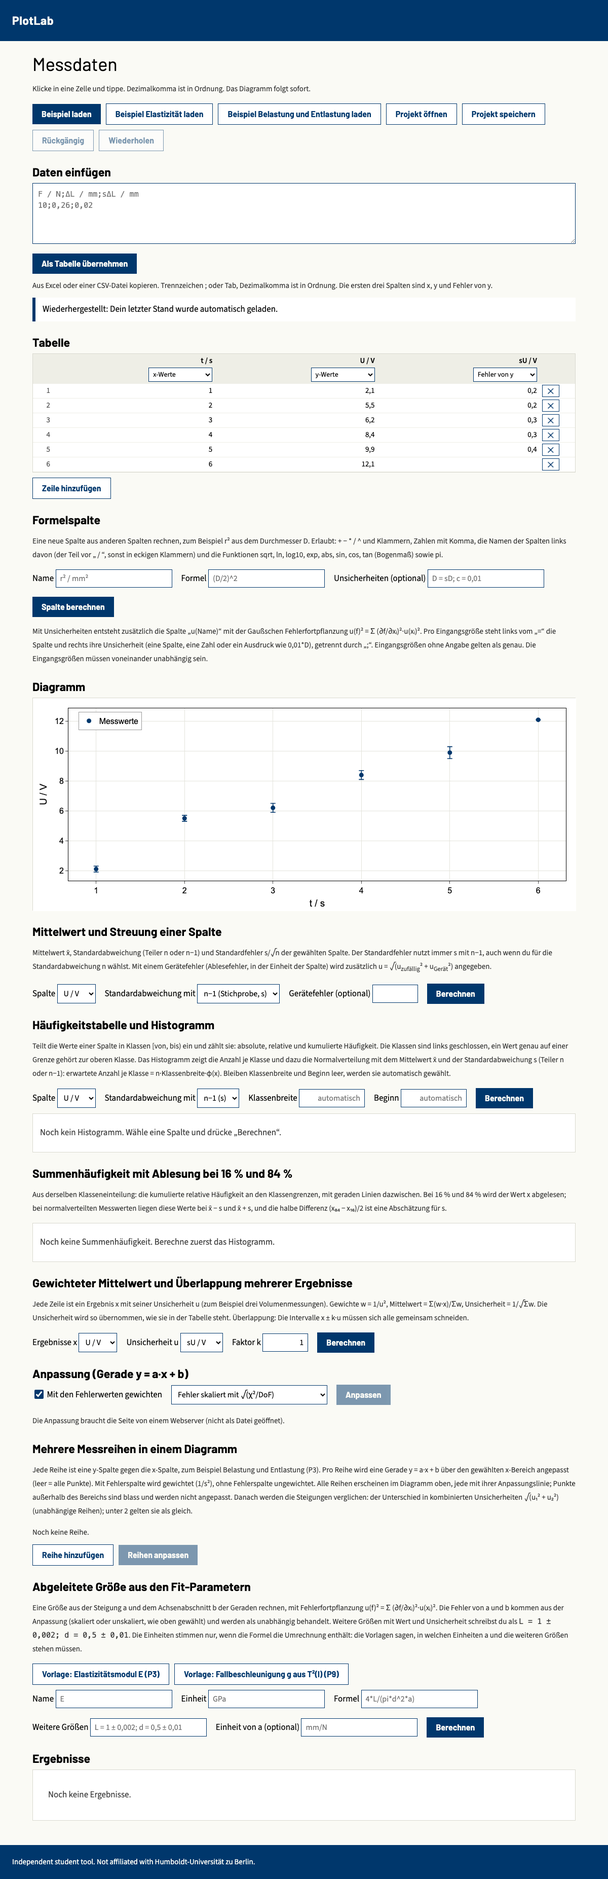
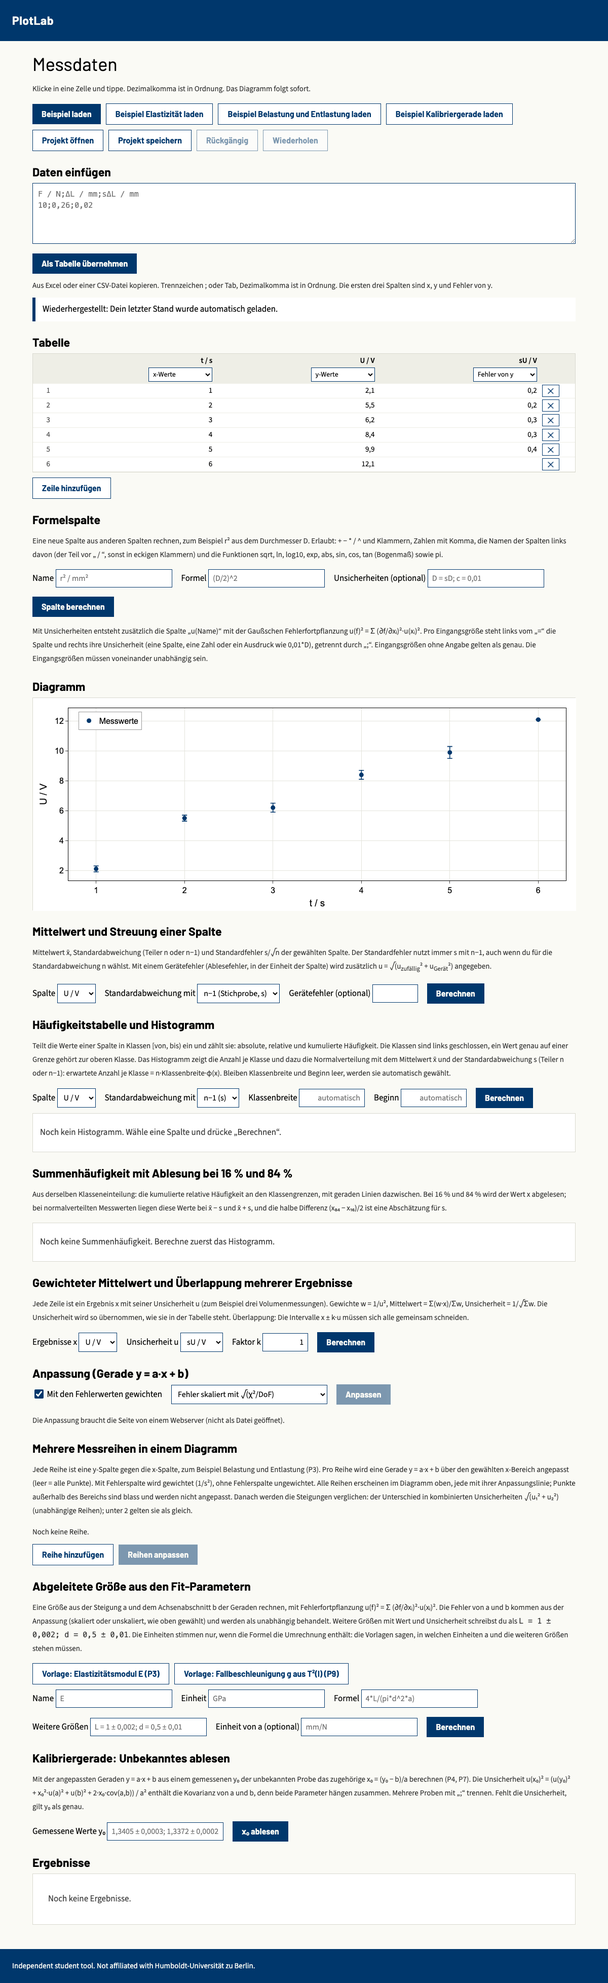
Phase 2 step 9: calibration line with an unknown read off, including covariance

diff --git a/app/index.html b/app/index.html
@@ -75,6 +75,7 @@
     <button class="btn" id="example">Beispiel laden</button>
     <button class="btn alt" id="example2">Beispiel Elastizität laden</button>
     <button class="btn alt" id="example3">Beispiel Belastung und Entlastung laden</button>
+    <button class="btn alt" id="example4">Beispiel Kalibriergerade laden</button>
     <label class="btn alt">Projekt öffnen<input id="openfile" type="file" accept=".json,.plotlab" hidden></label>
     <button class="btn alt" id="saveproj" disabled>Projekt speichern</button>
     <button class="btn alt" id="undo" disabled title="Strg/Cmd+Z">Rückgängig</button>
@@ -166,6 +167,13 @@
     <button class="btn" id="derive">Berechnen</button>
   </div>
   <div id="derivemsg" class="msg" role="alert" hidden></div>
+  <h2>Kalibriergerade: Unbekanntes ablesen</h2>
+  <p class="hint">Mit der angepassten Geraden y = a·x + b aus einem gemessenen y₀ der unbekannten Probe das zugehörige x₀ = (y₀ − b)/a berechnen (P4, P7). Die Unsicherheit u(x₀)² = (u(y₀)² + x₀²·u(a)² + u(b)² + 2·x₀·cov(a,b)) / a² enthält die Kovarianz von a und b, denn beide Parameter hängen zusammen. Mehrere Proben mit „;“ trennen. Fehlt die Unsicherheit, gilt y₀ als genau.</p>
+  <div class="fitbar" id="calib">
+    <label>Gemessene Werte y₀ <input class="txt" id="c_y0" aria-label="Gemessene Werte y0 mit Unsicherheit" placeholder="1,3405 ± 0,0003; 1,3372 ± 0,0002" autocomplete="off" spellcheck="false"></label>
+    <button class="btn" id="c_go">x₀ ablesen</button>
+  </div>
+  <div id="calibmsg" class="msg" role="alert" hidden></div>
   <h2>Ergebnisse</h2>
   <div id="results"><div class="empty">Noch keine Ergebnisse.</div></div>
 </main>
@@ -187,6 +195,8 @@ const fmt = new Intl.NumberFormat("de-DE", { maximumFractionDigits: 10 });
 const EXAMPLE2 = [["F / N", "ΔL / mm", "sΔL / mm"], [[10, 0.26, 0.02], [20, 0.50, 0.02], [30, 0.77, 0.02], [40, 1.03, 0.02], [50, 1.28, 0.02], [60, 1.51, 0.02]]];
 // Loading and unloading of the same wire (P3): extension against load, once while loading and once while unloading.
 const EXAMPLE3 = [["F / N", "ΔL auf / mm", "sΔL auf / mm", "ΔL ab / mm", "sΔL ab / mm"], [[10, 0.26, 0.02, 0.30, 0.02], [20, 0.50, 0.02, 0.55, 0.02], [30, 0.77, 0.02, 0.81, 0.02], [40, 1.03, 0.02, 1.05, 0.04], [50, 1.28, 0.02, 1.31, 0.04], [60, 1.51, 0.02, 1.54, 0.04]]];
+// Refractometer calibration (P7): refractive index n against mass fraction w, standards 0 to 10 %, errors grow with the reading.
+const EXAMPLE4 = [["w / %", "n / 1", "sn / 1"], [[0, 1.3331, 0.0002], [2, 1.3358, 0.0002], [4, 1.3389, 0.0002], [6, 1.3416, 0.0004], [8, 1.3445, 0.0004], [10, 1.3474, 0.0004]]];
 const EXAMPLE = [["t / s", "U / V", "sU / V"], [[1, 2.1, 0.2], [2, 4.3, 0.2], [3, 6.2, 0.3], [4, 8.4, 0.3], [5, 9.9, 0.4]]];
 // Templates for the derived quantity. E: L in m, d in mm, a in mm/N gives GPa (1 m, 1 mm, 1 mm/N is 4/π GPa). g: a = T²/l in s²/m gives m/s².
 const DERIVED_TEMPLATES = {
@@ -293,12 +303,23 @@ function renderPlot() {
   if (e) trace.error_y = { type: "data", array: idx.map(i => e.values[i] ?? 0), visible: true, color: "#00376C", thickness: 1.6, width: 5 };
   const ax = t => ({ title: { text: t, standoff: 10 }, showline: true, linecolor: "#000", mirror: true, ticks: "outside", gridcolor: "#e4e4dc", zeroline: false, exponentformat: "none" });
   const traces = [trace], fit = freshFit();
+  let yRange = null;
   if (fit) {
     const xs = idx.map(i => x.values[i]), lo = Math.min(...xs), hi = Math.max(...xs), [a, b] = fit.params.map(q => q.value);
     traces.push({ x: [lo, hi], y: [a * lo + b, a * hi + b], mode: "lines", type: "scatter", name: "Anpassung", line: { color: "#D55E00", width: 2.5 } });
+    // Calibration read-off: dashed guides from each measured y0 across to the line and down to the x axis, a marker at x0 with its uncertainty.
+    const cal = freshCalib();
+    if (cal) {
+      const reads = calibReads(cal), ys = [...idx.map(i => y.values[i] - (e?.values[i] ?? 0)), ...idx.map(i => y.values[i] + (e?.values[i] ?? 0)), ...reads.map(q => q.y0)];
+      const yl = Math.min(...ys), yh = Math.max(...ys), pad = 0.05 * ((yh - yl) || 1);
+      yRange = [yl - pad, yh + pad];
+      reads.forEach(q => traces.push({ x: [Math.min(lo, q.x0), q.x0, q.x0], y: [q.y0, q.y0, yRange[0]], mode: "lines", type: "scatter", showlegend: false, hoverinfo: "skip", line: { color: "#009E73", width: 1.5, dash: "dash" } }));
+      traces.push({ x: reads.map(q => q.x0), y: reads.map(q => q.y0), mode: "markers", type: "scatter", name: "Ablesung x₀ (± u)", marker: { color: "#009E73", size: 11, symbol: "diamond" },
+        error_x: { type: "data", array: reads.map(q => uOf(q) ?? 0), visible: true, color: "#009E73", thickness: 1.6, width: 5 } });
+    }
   }
   Plotly.react("plot", traces, { font: { family: "Arial, Helvetica, sans-serif", size: 16, color: "#000" }, separators: ",.",
-    margin: { l: 70, r: 20, t: 20, b: 60 }, xaxis: ax(x.name), yaxis: ax(y.name), paper_bgcolor: "#fff", plot_bgcolor: "#fff",
+    margin: { l: 70, r: 20, t: 20, b: 60 }, xaxis: ax(x.name), yaxis: { ...ax(y.name), ...(yRange ? { range: yRange } : {}) }, paper_bgcolor: "#fff", plot_bgcolor: "#fff",
     showlegend: true, legend: { x: 0.02, y: 0.98, bgcolor: "#fff", bordercolor: "#999", borderwidth: 1 } }, { displaylogo: false, responsive: true });
 }
 const freshFit = () => proj.results.find(r => r.kind === "fit" && !isStale(proj, r));
@@ -321,6 +342,25 @@ function derivedDetail(r) {
   return `<div class="detail" data-how>Rechnung: ${name} = ${esc(r.formula)}; u(${name})² = Σ (∂${name}/∂xᵢ)²·u(xᵢ)² (unabhängige Eingänge). Eingesetzt: ${used2}. ` +
     `Beiträge zu u(${name})/|${name}|: ${parts || "keine (alle Unsicherheiten 0)"}. Fehler von a und b: ${un ? "unskaliert" : "skaliert bzw. aus der Streuung"}.` +
     (used.some(q => q.name === "a") && used.some(q => q.name === "b") ? " Hinweis: a und b werden als unabhängig behandelt, ihre Korrelation ist nicht berücksichtigt." : "") + "</div>";
+}
+// Calibration read-off result: the numbers behind each x0, the share of each term in u(x0)², a warning outside the calibrated range.
+// Every number goes through a number formatter and every text through esc(), so a hand-edited project file cannot inject markup.
+const calibReads = r => (Array.isArray(r.reads) ? r.reads : []).filter(q => q && [q.y0, q.x0].every(Number.isFinite)).slice(0, 10);
+const calibOk = r => Array.isArray(r.reads) && r.reads.length > 0 && r.reads.length <= 10 && r.reads.every(q => q && [q.y0, q.x0, q.uScaled].every(Number.isFinite)) && Array.isArray(r.range) && r.range.every(Number.isFinite);
+const freshCalib = () => { const r = proj.results.find(q => q.kind === "calib" && !isStale(proj, q)); return r && calibOk(r) ? r : null; };
+function calibDetail(r) {
+  const f = new Intl.NumberFormat("de-DE", { maximumSignificantDigits: 4 }), g = new Intl.NumberFormat("de-DE", { maximumSignificantDigits: 6 }), sci = new Intl.NumberFormat("de-DE", { notation: "scientific", maximumFractionDigits: 3 });
+  const pc = new Intl.NumberFormat("de-DE", { maximumFractionDigits: 0 }), un = proj.settings.errMethod === "unscaled" && r.weighted;
+  const m = (r.used || {})[un ? "unscaled" : "scaled"] || {}, u = r.used || {}, unit = esc(u.xUnit ?? ""), lo = Number((r.range || [])[0]), hi = Number((r.range || [])[1]);
+  const how = !r.weighted ? "ungewichtete Anpassung; a, b und ihre Kovarianz aus der Streuung der Messpunkte um die Gerade"
+    : un ? "gewichtete Anpassung (Gewichte 1/s²); a, b und ihre Kovarianz unskaliert, direkt aus den Fehlerwerten" : "gewichtete Anpassung (Gewichte 1/s²); a, b und ihre Kovarianz mit χ²/DoF skaliert";
+  const rows = calibReads(r).map(q => {
+    const parts = (un ? q.partsUnscaled : q.partsScaled) || {}, sh = k => parts[k] == null ? "–" : pc.format(Number(parts[k]) * 100) + " %", out = q.x0 < lo || q.x0 > hi;
+    return `<div class="detail" data-readoff>y₀ = ${fmt.format(q.y0)} ± ${fmt.format(Number(q.u0))}: x₀ = ${f.format(q.x0)}${unit ? " " + unit : ""}. Anteile an u(x₀)²: y₀ ${sh("y0")}, a ${sh("a")}, b ${sh("b")}, Kovarianz ${sh("cov")}.` +
+      (out ? ` Hinweis: x₀ liegt außerhalb des Kalibrierbereichs ${f.format(lo)} bis ${f.format(hi)}${unit ? " " + unit : ""} (Extrapolation). Die Unsicherheit ist dort größer, als die Rechnung zeigt.` : "") + "</div>";
+  }).join("");
+  return `<div class="detail" data-calibhow>Rechnung: x₀ = (y₀ − b)/a mit a = ${g.format(Number(u.a))}, b = ${g.format(Number(u.b))}, u(a) = ${g.format(Number(m.ua))}, u(b) = ${g.format(Number(m.ub))}, cov(a,b) = ${sci.format(Number(m.cov))}. ` +
+    `u(x₀)² = (u(y₀)² + x₀²·u(a)² + u(b)² + 2·x₀·cov(a,b)) / a². Methode: ${how}.</div>` + rows;
 }
 // Series result: one row per series, then every pair of slopes compared. Numbers go through formatters, text through esc().
 function seriesDetail(r) {
@@ -415,7 +455,7 @@ function renderResults() {
       const u = uOf(q), t = huRound(q.value, u);
       return `<div class="res">${esc(q.name)} = ${t ? `(${t[0]} ± ${t[1]})` : q.plain ? fmtPlain.format(q.value) : fmt.format(q.value)}${q.unit ? " " + esc(q.unit) : ""}</div>`;
     }).join("");
-    return `<div class="result${stale ? " stale" : ""}">${stale ? `<div class="msg stalemsg">Die Daten wurden geändert. Dieses Ergebnis ist veraltet. Bitte neu ${["stats", "wmean", "hist", "derived"].includes(r.kind) ? "berechnen" : "anpassen"}.</div>` : ""}${lines}${r.kind === "fit" && r.dof ? fitDetail(r) : ""}${r.kind === "derived" ? derivedDetail(r) : ""}${r.kind === "stats" ? statsDetail(r) : ""}${r.kind === "wmean" ? wmeanDetail(r) : ""}${r.kind === "hist" ? histDetail(r) : ""}${r.kind === "series" ? seriesDetail(r) : ""}</div>`;
+    return `<div class="result${stale ? " stale" : ""}">${stale ? `<div class="msg stalemsg">Die Daten wurden geändert. Dieses Ergebnis ist veraltet. Bitte neu ${["stats", "wmean", "hist", "derived", "calib"].includes(r.kind) ? "berechnen" : "anpassen"}.</div>` : ""}${lines}${r.kind === "fit" && r.dof ? fitDetail(r) : ""}${r.kind === "derived" ? derivedDetail(r) : ""}${r.kind === "stats" ? statsDetail(r) : ""}${r.kind === "wmean" ? wmeanDetail(r) : ""}${r.kind === "hist" ? histDetail(r) : ""}${r.kind === "series" ? seriesDetail(r) : ""}${r.kind === "calib" ? calibDetail(r) : ""}</div>`;
   }).join("");
 }
 // Weighting needs an error column; errors method only matters for a weighted fit.
@@ -445,6 +485,7 @@ function syncControls() {
   for (const [id, v] of [["h_w", hs.width], ["h_s", hs.start]]) { $(id).value = v === null ? "" : fmt.format(v); $(id).classList.remove("bad"); }
   const ds = derivedSettings(proj);
   for (const [id, k] of Object.entries(DKEYS)) $(id).value = ds[k];
+  $("c_y0").value = calibSettings(proj).y0; $("calibmsg").hidden = true;
 }
 // Formula columns are recomputed from the data on every change; rows that cannot be calculated are named in the message.
 function recalc() {
@@ -496,6 +537,11 @@ $("example").onclick = () => setProject(newProject(...EXAMPLE));
 $("example3").onclick = () => {
   const p = newProject(...EXAMPLE3);
   p.settings.series = [{ y: "ΔL auf / mm", err: "sΔL auf / mm", xmin: null, xmax: null }, { y: "ΔL ab / mm", err: "sΔL ab / mm", xmin: null, xmax: null }];
+  setProject(p);
+};
+$("example4").onclick = () => {
+  const p = newProject(...EXAMPLE4);
+  p.settings.calib = { y0: "1,3405 ± 0,0003" };
   setProject(p);
 };
 $("example2").onclick = () => {
@@ -557,7 +603,7 @@ if (worker) {
     if (fingerprint(proj) !== job.fp || proj.settings.weighted !== job.weightedSetting) return fitFailed("Die Daten wurden während der Berechnung geändert. Bitte erneut anpassen.");
     const out = m.result;
     change(() => addResult(proj, {
-      kind: "fit", model: "line", weighted: job.weighted, dof: out.dof, n: job.n,
+      kind: "fit", model: "line", weighted: job.weighted, dof: out.dof, n: job.n, cov: { scaled: out.cov_scaled, ...(job.weighted ? { unscaled: out.cov_unscaled } : {}) },
       ...(job.weighted ? { chi2: out.chi2 } : { ssr: out.ssr }),
       params: job.names.map(([name, unit], i) => ({ name, unit, value: out.p[i], uScaled: out.err_scaled[i], ...(job.weighted ? { uUnscaled: out.err_unscaled[i] } : {}) })),
     }));
@@ -659,6 +705,38 @@ $("derive").onclick = () => {
   change(() => addResult(proj, {
     kind: "derived", weighted: fit.weighted, formula: ds.formula.trim(), used: s.used, partsScaled: s.parts, partsUnscaled: (u || s).parts,
     params: [{ name, unit: ds.unit.trim(), value: s.value, uScaled: s.u, ...(u ? { uUnscaled: u.u } : {}) }],
+  }));
+};
+// Calibration read-off: the measured values are a text setting (typing is one undo step); the calculation needs a fresh line fit with its covariance.
+$("c_y0").addEventListener("input", e => {
+  if (editKey !== "calib.y0") { pushUndo(); editKey = "calib.y0"; }
+  proj.settings.calib = { y0: e.target.value };
+  renderPlot(); renderResults(); autosave();
+});
+$("c_y0").addEventListener("focusout", () => { editKey = null; });
+function calibFailed(why) { $("calibmsg").textContent = why; $("calibmsg").hidden = false; }
+$("c_go").onclick = () => {
+  if (!proj) return;
+  const fit = freshFit(), x = col("x"), y = col("y");
+  if (!fit) return calibFailed("Bitte zuerst „Anpassen“ drücken. Das Ergebnis der Geradenanpassung fehlt oder ist veraltet.");
+  const v = parseCalibValues(calibSettings(proj).y0);
+  if (v.error) return calibFailed(v.error);
+  const cv = k => { const c = (fit.cov || {})[k]; return Array.isArray(c) && c.length === 3 && c.every(Number.isFinite) ? c : null; };
+  const kinds = fit.weighted ? ["scaled", "unscaled"] : ["scaled"];
+  if (!kinds.every(cv)) return calibFailed("Das Ergebnis der Anpassung enthält die Kovarianz von a und b nicht (ältere Version). Bitte „Anpassen“ erneut drücken.");
+  const [pa, pb] = fit.params, xs = x.values.filter((q, i) => q !== null && y.values[i] !== null), per = k => ({ a: pa.value, b: pb.value, ua: pa[k === "scaled" ? "uScaled" : "uUnscaled"], ub: pb[k === "scaled" ? "uScaled" : "uUnscaled"], cov: cv(k)[1] });
+  const unit = (x.name.split("/")[1] || "").trim(), reads = [];
+  for (const q of v.values) {
+    const s = readOff(per("scaled"), q.y0, q.u);
+    if (s.error) return calibFailed(s.error);
+    const u = fit.weighted ? readOff(per("unscaled"), q.y0, q.u) : null;
+    reads.push({ y0: q.y0, u0: q.u, x0: s.x0, uScaled: s.u, ...(u ? { uUnscaled: u.u } : {}), partsScaled: s.parts, partsUnscaled: (u || s).parts });
+  }
+  $("calibmsg").hidden = true;
+  change(() => addResult(proj, {
+    kind: "calib", weighted: fit.weighted, range: [Math.min(...xs), Math.max(...xs)],
+    used: { a: pa.value, b: pb.value, xUnit: unit, scaled: { ua: per("scaled").ua, ub: per("scaled").ub, cov: cv("scaled")[1] }, ...(fit.weighted ? { unscaled: { ua: per("unscaled").ua, ub: per("unscaled").ub, cov: cv("unscaled")[1] } } : {}) },
+    reads, params: reads.map(q => ({ name: `x₀ (y₀ = ${fmt.format(q.y0)})`, unit, value: q.x0, uScaled: q.uScaled, ...(q.uUnscaled !== undefined ? { uUnscaled: q.uUnscaled } : {}) })),
   }));
 };
 // Typing the instrument error is one undo step; the two selects are one step each.

diff --git a/app/derived.js b/app/derived.js
@@ -44,4 +44,33 @@ function deriveQuantity(formula, fit, vars) {
     return { error: `Die Formel lässt sich nicht berechnen: ${e}.` };
   }
 }
-if (typeof module !== "undefined") module.exports = { parseDerivedVars, deriveQuantity };
+
+// Calibration line (P4, P7): measured values "0,45 ± 0,01; 0,62 ± 0,01" (u may be missing = exact) -> {values: [{y0, u}]} or {error}.
+function parseCalibValues(text) {
+  const entries = String(text).split(";").map(s => s.trim()).filter(Boolean), values = [];
+  if (!entries.length) return { error: "Bitte mindestens einen gemessenen Wert y₀ eintragen, zum Beispiel 0,45 ± 0,01. Mehrere Werte mit „;“ trennen." };
+  if (entries.length > 10) return { error: "Es sind höchstens 10 gemessene Werte möglich." };
+  for (const e of entries) {
+    const parts = e.split(/±|\+-|\+\/-/).map(s => s.trim());
+    if (parts.length > 2) return { error: `„${e}“: Es darf nur ein ± vorkommen.` };
+    const y0 = _toNum(parts[0]), u = parts.length === 2 ? _toNum(parts[1]) : 0;
+    if (!Number.isFinite(y0)) return { error: `„${e}“: „${parts[0]}“ ist keine Zahl.` };
+    if (!Number.isFinite(u) || u < 0) return { error: `„${e}“: Die Unsicherheit „${parts[1]}“ ist keine Zahl größer oder gleich 0.` };
+    values.push({ y0, u });
+  }
+  return { values };
+}
+// x0 = (y0 - b)/a with u(x0)² = (u(y0)² + x0²·u(a)² + u(b)² + 2·x0·cov(a,b)) / a². fit = {a, b, ua, ub, cov} (cov = covariance of a and b).
+// parts: share of each term in u(x0)² (they add up to 1; the covariance share is negative when a and b are positively correlated).
+function readOff(fit, y0, u0) {
+  const { a, b, ua, ub, cov } = fit;
+  if (!Number.isFinite(a) || !(Math.abs(a) > 2 * ua)) { // a slope that is not clearly different from 0 gives a meaningless x0
+    const g = new Intl.NumberFormat("de-DE", { maximumSignificantDigits: 3 });
+    return { error: `Die Steigung a = ${g.format(a)} (u(a) = ${g.format(ua)}) ist nicht deutlich von 0 verschieden. Daraus lässt sich kein x₀ ablesen.` };
+  }
+  const x0 = (y0 - b) / a, t = { y0: u0 * u0, a: x0 * x0 * ua * ua, b: ub * ub, cov: 2 * x0 * cov }, v = (t.y0 + t.a + t.b + t.cov) / (a * a);
+  if (!Number.isFinite(v)) return { error: "Die Unsicherheit von x₀ lässt sich nicht berechnen." };
+  const sum = t.y0 + t.a + t.b + t.cov;
+  return { x0, u: Math.sqrt(Math.max(0, v)), parts: Object.fromEntries(Object.entries(t).map(([k, q]) => [k, sum > 0 ? q / sum : null])) };
+}
+if (typeof module !== "undefined") module.exports = { parseDerivedVars, deriveQuantity, parseCalibValues, readOff };

diff --git a/app/project.js b/app/project.js
@@ -43,6 +43,8 @@ function derivedSettings(p) {
   const d = p.settings.derived || {}, t = k => typeof d[k] === "string" ? d[k] : "";
   return { name: t("name"), unit: t("unit"), formula: t("formula"), vars: t("vars"), aUnit: t("aUnit") };
 }
+// Calibration read-off (P4, P7): the measured y0 values as text "0,45 ± 0,01; 0,62 ± 0,01".
+const calibSettings = p => ({ y0: typeof ((p.settings || {}).calib || {}).y0 === "string" ? p.settings.calib.y0 : "" });
 // Several y series fitted over their own x ranges (P3 loading and unloading): [{y, err, xmin, xmax}], at most 4. A series whose y column is gone is dropped.
 const SERIES_MAX = 4;
 function seriesSettings(p) {
@@ -61,9 +63,10 @@ function addResult(p, result) {
   p.results.push({ ...result, settings: { ...p.settings }, computedFrom: (KEYS[result.kind] || fingerprint)(p) });
 }
 
-// Stale when the data changed, weighting was switched after the fit, or (derived results) the extra inputs changed.
+// Stale when the data changed, weighting was switched after the fit, or (derived and calibration results) their own inputs changed.
 const isStale = (p, r) => KEYS[r.kind] ? r.computedFrom !== KEYS[r.kind](p) : r.computedFrom !== fingerprint(p) || (r.settings || {}).weighted !== p.settings.weighted ||
-  (r.kind === "derived" && JSON.stringify(derivedSettings({ settings: r.settings || {} })) !== JSON.stringify(derivedSettings(p)));
+  (r.kind === "derived" && JSON.stringify(derivedSettings({ settings: r.settings || {} })) !== JSON.stringify(derivedSettings(p))) ||
+  (r.kind === "calib" && JSON.stringify(calibSettings({ settings: r.settings || {} })) !== JSON.stringify(calibSettings(p)));
 
 const save = p => JSON.stringify(p, null, 1);
 
@@ -80,4 +83,4 @@ function open(text) {
   return ok ? { project: p } : { error: "Das Projekt ist beschädigt: Spalten oder Werte fehlen oder sind keine Zahlen." };
 }
 
-if (typeof module !== "undefined") module.exports = { seriesSettings, SERIES_MAX, derivedSettings, statsSettings, wmeanSettings, histSettings, ROLES, newProject, fingerprint, addResult, isStale, save, open };
+if (typeof module !== "undefined") module.exports = { calibSettings, seriesSettings, SERIES_MAX, derivedSettings, statsSettings, wmeanSettings, histSettings, ROLES, newProject, fingerprint, addResult, isStale, save, open };

diff --git a/testbuild/fit-worker.js b/testbuild/fit-worker.js
@@ -21,11 +21,13 @@ def line_fit(x, y, sy):
         raise ValueError("Die Anpassung ist nicht konvergiert. Andere Startwerte oder ein anderes Modell versuchen.")
     c = (vt.T / sv ** 2) @ vt                     # (A^T A)^-1 = covariance for known errors
     r = y - (p[0] * x + p[1]); chi2 = float(np.sum((r / s) ** 2)); dof = len(x) - 2
-    out = {"p": p.tolist(), "err_scaled": np.sqrt(np.diag(c) * chi2 / dof).tolist(), "dof": dof}
+    out = {"p": p.tolist(), "err_scaled": np.sqrt(np.diag(c) * chi2 / dof).tolist(), "dof": dof,
+           "cov_scaled": [float(c[0, 0] * chi2 / dof), float(c[0, 1] * chi2 / dof), float(c[1, 1] * chi2 / dof)]}  # [var a, cov a b, var b], for calibration read-off
     if sy is None:
         out["ssr"] = chi2
     else:
         out["err_unscaled"] = np.sqrt(np.diag(c)).tolist(); out["chi2"] = chi2
+        out["cov_unscaled"] = [float(c[0, 0]), float(c[0, 1]), float(c[1, 1])]
     return json.dumps(out)
 def run(s):
     d = json.loads(s)

diff --git a/tests/reference/calibration.py b/tests/reference/calibration.py
@@ -1,0 +1,53 @@
+# Independent hand calculation (exact fractions) for tests/phase2-step9-calibration.mjs: calibration line (refractometer, P7) and an unknown read off.
+# Run: python3 tests/reference/calibration.py
+# Weighted line fit as in Taylor, "An Introduction to Error Analysis", ch. 8 (w = 1/s^2), with the covariance of a and b = -Sx / D (D = Sw*Sxx - Sx^2).
+# Unknown: x0 = (y0 - b)/a. Propagation of u(y0), u(a), u(b) and cov(a,b):
+#   u(x0)^2 = (1/a^2) * (u(y0)^2 + x0^2 u(a)^2 + u(b)^2 + 2 x0 cov(a,b))
+# Second route for the UNWEIGHTED case, the classic inverse-regression formula (Miller & Miller, "Statistics and Chemometrics for Analytical Chemistry"):
+#   u(x0)^2 = (u(y0)^2 + s^2 (1/n + (x0 - xbar)^2 / Sxx)) / a^2   with s^2 = SSR/(n-2)
+from fractions import Fraction as F
+from math import sqrt
+x = [F(v) for v in (0, 2, 4, 6, 8, 10)]
+y = [F(v) for v in ("1.3331", "1.3358", "1.3389", "1.3416", "1.3445", "1.3474")]
+s = [F(v) for v in ("0.0002", "0.0002", "0.0002", "0.0004", "0.0004", "0.0004")]
+y0, u0 = F("1.3405"), F("0.0003")
+
+def wfit(x, y, s):
+    w = [1 / q**2 for q in s]; S = sum
+    Sw, Sx, Sy = S(w), S(a * b for a, b in zip(w, x)), S(a * b for a, b in zip(w, y))
+    Sxx, Sxy = S(a * b * b for a, b in zip(w, x)), S(a * b * c for a, b, c in zip(w, x, y))
+    D = Sw * Sxx - Sx**2
+    a, b = (Sw * Sxy - Sx * Sy) / D, (Sxx * Sy - Sx * Sxy) / D
+    chi2 = S(wi * (yi - a * xi - b) ** 2 for wi, xi, yi in zip(w, x, y)); dof = len(x) - 2
+    var_a, var_b, cov = Sw / D, Sxx / D, -Sx / D          # unscaled (known errors)
+    return a, b, var_a, var_b, cov, chi2, dof
+
+def read_off(a, b, va, vb, cov, y0, u0):
+    x0 = (y0 - b) / a
+    with_cov = sqrt(float((u0**2 + x0**2 * va + vb + 2 * x0 * cov) / a**2))
+    indep = sqrt(float((u0**2 + x0**2 * va + vb) / a**2))
+    return float(x0), with_cov, indep
+
+a, b, va, vb, cov, chi2, dof = wfit(x, y, s)
+k = chi2 / dof                                            # scaling of the covariance matrix by chi2/DoF
+print("weighted: a", float(a), "b", float(b), "chi2", float(chi2), "dof", dof, "chi2/dof", float(k))
+print("  unscaled u(a)", sqrt(float(va)), "u(b)", sqrt(float(vb)), "cov", float(cov))
+print("  scaled   u(a)", sqrt(float(va * k)), "u(b)", sqrt(float(vb * k)), "cov", float(cov * k))
+print("  unscaled x0, u with cov, u independent:", *read_off(a, b, va, vb, cov, y0, u0))
+print("  scaled   x0, u with cov, u independent:", *read_off(a, b, va * k, vb * k, cov * k, y0, u0))
+# several unknowns at once
+for yy, uu in ((F("1.3405"), F("0.0003")), (F("1.3372"), F("0.0002")), (F("1.3490"), F("0.0003"))):
+    print("  y0", float(yy), "scaled:", *read_off(a, b, va * k, vb * k, cov * k, yy, uu))
+
+# unweighted (ordinary least squares), all 6 points
+n = len(x); mx = sum(x) / n; my = sum(y) / n; sxx = sum((v - mx) ** 2 for v in x); sxy = sum((v - mx) * (w - my) for v, w in zip(x, y))
+a0 = sxy / sxx; b0 = my - a0 * mx; ssr = sum((w - a0 * v - b0) ** 2 for v, w in zip(x, y)); s2 = ssr / (n - 2)
+va0, vb0, cov0 = s2 / sxx, s2 * (1 / F(n) + mx**2 / sxx), -s2 * mx / sxx
+print("unweighted: a", float(a0), "b", float(b0), "ssr", float(ssr), "u(a)", sqrt(float(va0)), "u(b)", sqrt(float(vb0)), "cov", float(cov0))
+x0, uc, ui = read_off(a0, b0, va0, vb0, cov0, y0, u0)
+print("  x0", x0, "u with cov", uc, "u independent", ui)
+# classic inverse-regression formula (second route)
+x0f = (y0 - b0) / a0
+print("  classic formula u", sqrt(float((u0**2 + s2 * (1 / F(n) + (x0f - mx) ** 2 / sxx)) / a0**2)))
+# Extrapolation: an unknown above the last standard (x = 10)
+yo = F("1.3600"); print("  outside range: x0", float((yo - b0) / a0))

diff --git a/docs/progress.md b/docs/progress.md
@@ -15,12 +15,12 @@ Phase 1 is finished (see `docs/phase1-report.md`). Phase 2 **assumes P1 to P9** 
 - [x] 6. Cumulative probability plot with the 16 % and 84 % read-off (P1). Test: values read off the hand-made cumulative table; the plot marks both levels.
 - [x] 7. General derived quantity from fit parameters (P3, P4, P5, P9): a formula over a, b, u(a), u(b) with propagation; the E of step 6 of Phase 1 becomes the first template of it. Test: the P3 numbers of `tests/phase1-step6-elasticity.mjs` are reproduced exactly (E = (201 ± 8) GPa), plus one new case (g from the slope of T² against l, P9) by hand.
 - [x] 8. Fit a chosen x range and several y series in one plot (P3 loading and unloading). Test: two series fitted separately against hand values; both lines drawn and named in the legend; the two slopes compared in units of their combined uncertainty.
-- [ ] 9. Calibration line with an unknown read off, with uncertainty (P4, P7): the line fit also returns the covariance of a and b; x0 = (y0 − b)/a with propagated uncertainty. Test: a 6-point calibration and one measured y0 against a hand calculation including the covariance term.
+- [x] 9. Calibration line with an unknown read off, with uncertainty (P4, P7): the line fit also returns the covariance of a and b; x0 = (y0 − b)/a with propagated uncertainty. Test: a 6-point calibration and one measured y0 against a hand calculation including the covariance term.
 - [ ] 10. Semi-log axis switch with y error bars (P8). Test: log y axis on the plot data of a decay series; error bars stay visible; a zero or negative y shows a clear message instead of a broken plot.
 - [ ] 11. χ² goodness-of-fit against Poisson and Gauss (P8), statistics via SciPy in the worker: expected counts, χ², degrees of freedom, p-value, and a warning when expected counts are below 5. Test: χ² and expected counts by hand; p-values against the printed χ² table (for example df = 3: 7.815 at p = 0.05).
 - [ ] 12. Confidence interval for a mean with the t distribution (P9). Test: n = 5 sample against hand values with t(0.975; 4) = 2.776 from the table; the result line is (mean ± u) with the interval stated.
 - [ ] 13. Compare a measured and a calculated value with their uncertainties (P6 Wheatstone bridge and grating): difference in units of the combined uncertainty and a plain-language verdict. Test: hand numbers for one agreeing and one disagreeing pair.
-- [ ] 14. Figure export in the app (PNG 2400 px and SVG) moved from the test build, for every plot in Phase 2. Test: as `tests/step6-export.sh` but on the app page, including a semi-log plot.
+- [ ] 14. Figure export in the app (PNG 2400 px and SVG) moved from the test build, for every plot in Phase 2. In the same step move the fit worker, Pyodide, Plotly, round.js, parse.js and fonts from `testbuild/` into `app/` (still borrowed, see the Log of step 9). Test: as `tests/step6-export.sh` but on the app page, including a semi-log plot.
 - [ ] 15. Template projects, one per experiment: first P1 to P5 (P1 Fehlerverteilung, P2 Volumen, P3 Elastizität, P4 Oberflächenspannung, P5 Polarimetrie und Newtonsche Ringe), a "Vorlage laden" list in the app. Test: loading each template and pressing its steps reproduces the hand-calculated result lines of that experiment.
 - [ ] 16. Templates P6 to P9 (Wheatstone und Gitter, Refraktometer, Radioaktivität, Pendel). Test as step 15.
 - [ ] 17. Phase 2 gate: run every P1 to P9 check, measure the time and actions for each against the Excel steps, write `docs/phase2-report.md`. Things that need R, her real data or her time go under "For Luis". Then write Phase 3 steps from the roadmap.
@@ -83,3 +83,4 @@ Phase 1 is finished (see `docs/phase1-report.md`). Phase 2 **assumes P1 to P9** 
 - 2026-10-14, Phase 2 step 6: Under the histogram there is now a plot "Summenhäufigkeit mit Ablesung bei 16 % und 84 %", drawn from the same classes: the cumulative share at each class limit joined by straight lines, with dashed guides and orange markers at 16 % and 84 % and the read-off x values written next to them. The result also gets a line "Ablesung in der Summenhäufigkeit" with x(16 %), x(84 %), their half difference and, for comparison, x̄ − s and x̄ + s. Tested (`tests/phase2-step6-cumulative.sh`) with the 30 length readings of step 5 against exact fractions (`tests/reference/histogram.py`): cumulative 0 6,7 23,3 53,3 80,0 93,3 100 %; x(16 %) = 9,812 mm (2453/250), x(84 %) = 10,36 mm (259/25), half difference 0,274 mm, x̄ ∓ s = 9,787 and 10,31 mm; automatic classes 9,8267 and 10,2886 by hand; guides end exactly on the marked points; axis titles "l / mm" and "Kumulierte Häufigkeit / %"; the plot disappears when data changes ("veraltet") and comes back when the edit is reverted; reload keeps it; bad input (all values equal) leaves no plot; a hand-edited project with script text runs nothing. All 21 checks in `scripts/check.sh` pass. Screenshots `evidence/phase2-step6-cumulative.png`, `-plot.png`, `-error.png` judged OK. Limits: the read-off assumes the straight-line interpolation between class limits (stated on the page), so it depends on the class width; the levels 16 % and 84 % are fixed; the readings carry no uncertainty (shown with 4 digits, not in HU format); PNG/SVG export comes in step 14. New code: `cumRead` in `app/stats.js`.
 - 2026-10-14, Phase 2 step 7: The fixed "E berechnen" form is now a general derived quantity: a student types a name, unit and formula over the fitted slope a and intercept b (for example `4*pi^2/a`) plus further quantities "L = 1 ± 0,002; d = 0,5 ± 0,01", presses "Berechnen" and reads the result as (value ± u) unit with Gaussian propagation, using the scaled or unscaled error of a and b. The details line shows the formula, the numbers used and each input's share of the uncertainty; if a formula uses both a and b the page says their correlation is ignored (covariance comes in step 9). Two templates: E (P3) and g from T²(l) (P9). A template can name the unit a must have; a mismatch gives a message instead of a wrong number. Tested (`tests/phase2-step7-derived.sh`): hand cases a·b (u = 0,5), a/b (1/18), -b/a (0,125), 4π²/a, exact and uncertain extra inputs; in the real page P9 against exact fractions in `tests/reference/derived_g.py`: a = (3,99 ± 0,04) s²/m, g = (9,89 ± 0,09) m/s² scaled, (9,89 ± 0,15) unscaled, unweighted (9,88 ± 0,09); x0 = -b/a = (-0,005 ± 0,007) m; undo, stale, reload, save/open; 6 bad inputs give clear messages and add no result; a hand-edited project with script text runs nothing (the test fails if the escaping is removed). The P3 numbers of `tests/phase1-step6-elasticity.mjs` are unchanged (E = (201 ± 8) GPa, (201 ± 9) unscaled); only its input fields and the wrong-unit message were adapted to the new form. `app/derive.js` replaced by `app/derived.js`; `derivedSettings` in `app/project.js`; `partial` exported from `app/propagate.js`. Screenshots `evidence/phase2-step7-derived.png`, `-error.png`. Limits: a and b treated as independent; one derived result at a time; units are not converted automatically (the formula must contain the factor). The timed P3 run of Phase 1 step 8 now takes 7 actions instead of 9 (a template button replaces four entries); its test was adapted and passes.
 - 2026-10-14, Phase 2 step 8: A student can now add up to 4 series in "Mehrere Messreihen in einem Diagramm": each is a y column with an optional error column and an x range ("x von", "x bis", empty = all). "Reihen anpassen" fits a straight line per series over its range (weighted when an error column is chosen, else unweighted); all series appear in the main plot with their own marker, colour and named fit line, points outside the range pale. The results show a and b of each series as (value ± u) unit and compare every pair of slopes: difference with uncertainty, size in combined uncertainties √(u1² + u2²), and a verdict (under 2 agree, 2 or more clearly different). A new example "Beispiel Belastung und Entlastung" shows P3. Tested (`tests/phase2-step8-series.sh`) against exact fractions in `tests/reference/series_fit.py`: loading a = 0,025285714 (u 0,00029044 scaled, 0,00047809 unscaled), unloading a = 0,025018987 (u 0,00019733 / 0,00071157), screen (0,02529 ± 0,00029) and (0,02502 ± 0,00020) mm/N, difference 0,76 combined uncertainties (0,31 unscaled) so "stimmen überein"; ranges 10..30 against 40..60 give a = 0,0255 and 0,0245, z = 0,82; a soft unloading series (a = 0,018686) gives 20,86 (12,35 unscaled) so "unterscheiden sich deutlich"; unweighted loading equals the closed-form OLS. Undo steps back through each typed range, edits make the result out of date and take the lines out of the plot, reload and save/open keep it, a hand-edited project with script text runs nothing (the test fails if the escaping is removed). Bad input (2 points in the range, "von" above "bis", text in a range, error value 0 with the row, y = x column, 5th series, an edit during the calculation) gives clear German messages. All 23 checks in `scripts/check.sh` pass. Screenshots `evidence/phase2-step8-series.png`, `-ranges.png`, `-different.png`, `-error.png` judged OK (axis labels with unit, German numbers, solid markers against lines, legend names each series, error bars visible). New code: `app/series.js` (pure), `seriesSettings`/`seriesKey` in `app/project.js`. Limits: the series are treated as independent; the main fit ("Anpassen") has no x range of its own (use one series for that); the legend marker of a series with pale points looks lighter; PNG/SVG export of the series plot comes in step 14.
+- 2026-10-14, Phase 2 step 9: A student can now press "Anpassen" on a calibration line, type measured values of the unknown (`1,3405 ± 0,0003; 1,3372 ± 0,0002`) under "Kalibriergerade: Unbekanntes ablesen" and read x₀ = (y₀ − b)/a as (value ± u) unit. The uncertainty includes the covariance of a and b (the line fit in the worker now also returns var a, cov(a,b), var b, scaled and unscaled; stored in the fit result). The plot gets dashed guides from y₀ to the line and down to the x axis, a marker at x₀ with a horizontal uncertainty bar, and a legend entry. The details line gives the numbers used and the share of y₀, a, b and the covariance in u(x₀)²; x₀ outside the standards gets an extrapolation warning. Tested (`tests/phase2-step9-calibration.sh`) against exact fractions in `tests/reference/calibration.py` (6 standards, w = 0 to 10 %, n = 1,3331 to 1,3474, errors 0,0002 and 0,0004): a = 0,00143481, b = 1,33305527, cov(a,b) = -7,6056e-10 scaled and -4,0506e-9 unscaled, all 9 digits; y₀ = 1,3405 ± 0,0003 gives x₀ = 5,18865 with u = 0,21248 scaled and 0,22656 unscaled (without the covariance term 0,22132, so the test fails if it is left out); screen (5,19 ± 0,21) % and (5,19 ± 0,23) %; further unknowns (2,89 ± 0,14) % and (11,11 ± 0,23) % with the extrapolation warning on the last; unweighted x₀ = 5,19774, u = 0,21096, equal to the classic inverse-regression formula. Hand-checked pure cases (a = 2, b = 1, u(a) = 0,1, u(b) = 0,2, cov = -0,01, y₀ = 5 ± 0,3 gives x₀ = 2, u = √0,0325). Undo, stale, reload, save/open, bad input (no fit, empty, letters, negative u, 11 values, flat line with slope 0, fit without covariance) give clear German messages; a hand-edited project with script text runs nothing (the test fails if the escaping is removed). All 24 checks in `scripts/check.sh` pass. Screenshots `evidence/phase2-step9-calibration.png`, `-plot.png`, `-three.png`, `-error.png` judged OK (axis labels with unit, German numbers, guides distinct from the fit line, legend, no overlap). Limits: y₀ is treated as independent of the fit data; one calibration result at a time; the fit worker and Pyodide still live in `testbuild/` (moving them to `app/` is left for a separate step because the Phase 0 tests still use them). New code: `parseCalibValues` and `readOff` in `app/derived.js`; `calibSettings` in `app/project.js`.

diff --git a/CHANGELOG.md b/CHANGELOG.md
@@ -2,6 +2,14 @@
 
 Written in plain language for people who do not read code. Newest entry on top.
 
+## 2026-10-14: Calibration line with an unknown read off (P4, P7)
+
+- **What a student can now do:** after "Anpassen" on a calibration line, the new section "Kalibriergerade: Unbekanntes ablesen" takes one or more measured values of the unknown sample (for example `1,3405 ± 0,0003; 1,3372 ± 0,0002`) and gives the concentration x₀ = (y₀ − b)/a as (value ± u) unit, for example x₀ = (5,19 ± 0,21) %. A new example "Beispiel Kalibriergerade laden" shows a refractometer calibration.
+- **In the plot:** a dashed guide runs from each measured y₀ across to the line and down to the x axis, with a marker at x₀ and its uncertainty as a horizontal bar, named in the legend.
+- **Good to know:** the uncertainty uses the covariance of a and b, because the two fit parameters are not independent. In the example it changes u(x₀) from 0,22 to 0,21 %. The details line shows the numbers used and how much y₀, a, b and the covariance each contribute. The scaled/unscaled switch above applies. If x₀ is outside the measured standards, the page warns that this is extrapolation. The fit result now also stores the covariance, so a fit made with an older version has to be run again.
+- **Messages:** no fit yet or an out-of-date fit, empty or non-numeric y₀, negative uncertainty, more than 10 values, and a slope that is not clearly different from 0 each give a plain German message. Changing a value or the y₀ text makes the result "veraltet" and the guides leave the plot.
+- **Tested:** `tests/phase2-step9-calibration.sh` against exact-fraction hand calculations (`tests/reference/calibration.py`): weighted x₀ = 5,1886 with u = 0,2125 (scaled) and 0,2266 (unscaled); unweighted x₀ = 5,1977, u = 0,2110, also by the classic inverse-regression formula. Plus undo, reload, save and open, and a hand-edited project file.
+
 ## 2026-10-14: Several measurement series with their own x range (P3 loading and unloading)
 
 - **What a student can now do:** the new section "Mehrere Messreihen in einem Diagramm" takes any number of y columns (up to 4) against the x column. For each series the student picks the y column, an optional error column and an x range ("x von", "x bis", empty = all points). "Reihen anpassen" fits one straight line per series over its range. All series appear in the main plot, each with its own marker, colour and named fit line; points outside the range are pale and not fitted. A new example "Beispiel Belastung und Entlastung laden" shows P3.
